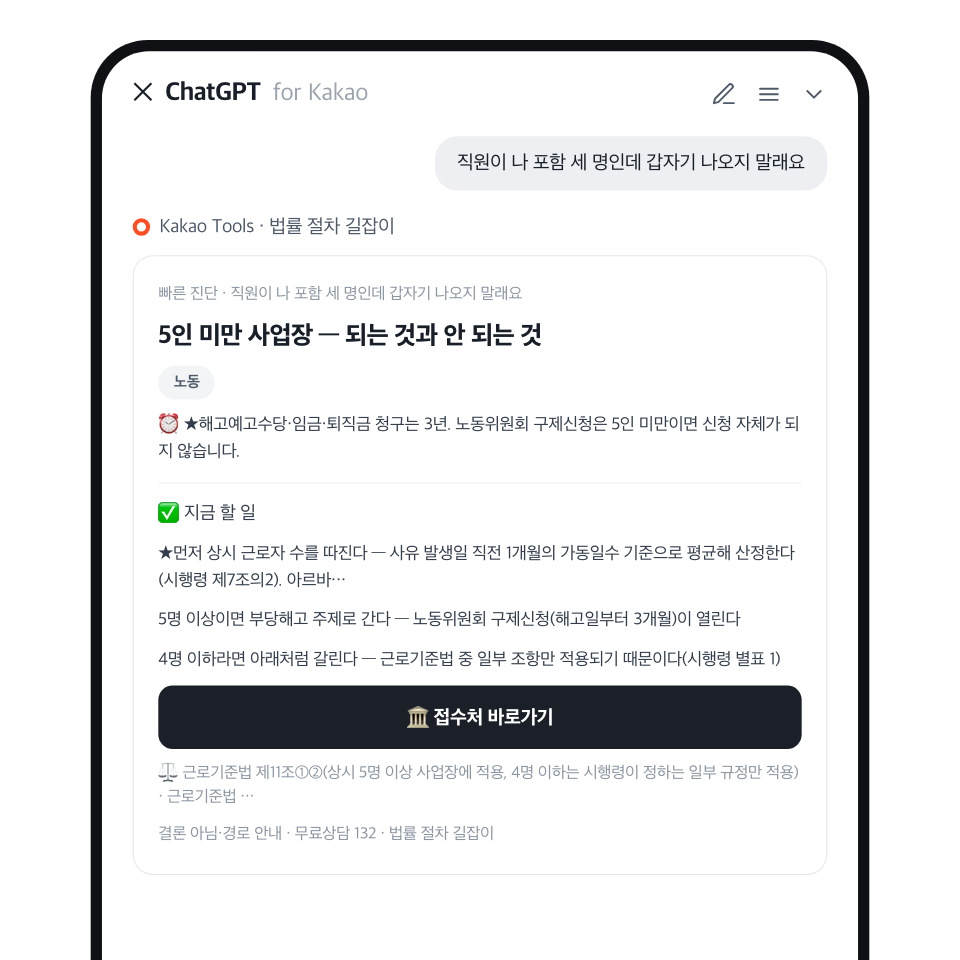
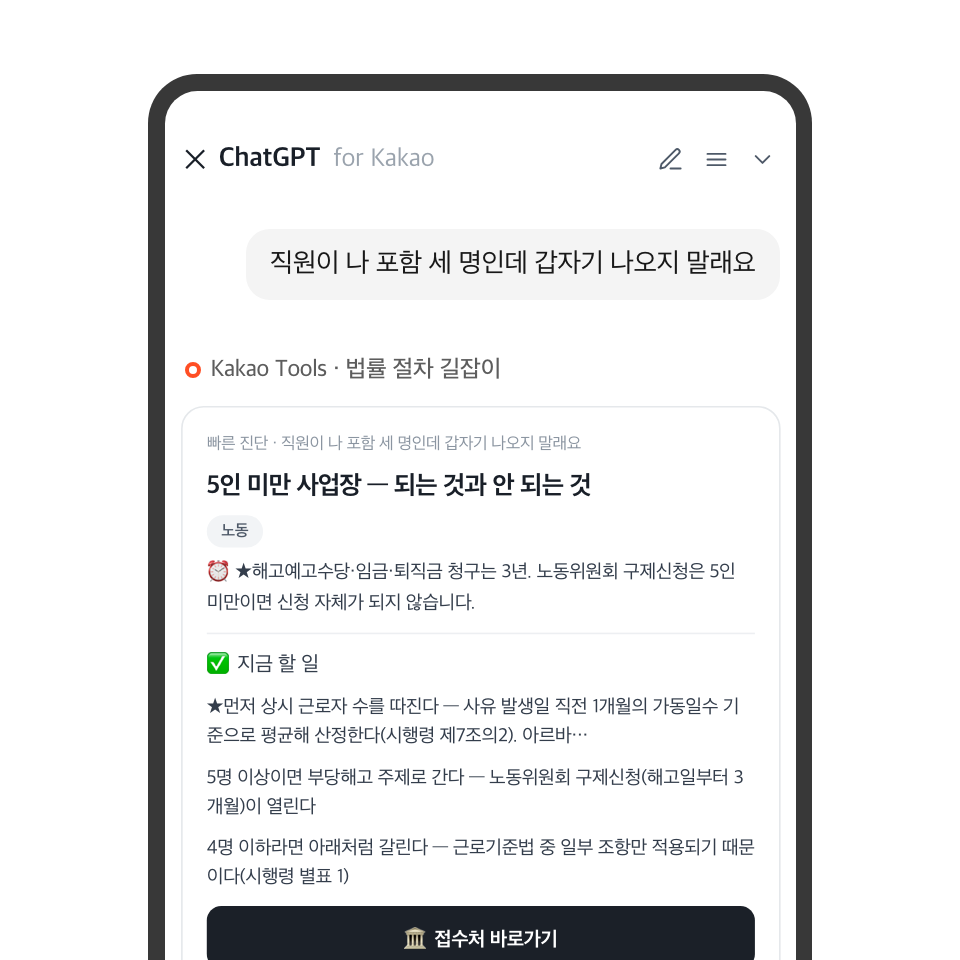
fix(assets): 소개 이미지를 공식 가이드 실측 좌표로 재제작 (2차 지적 반영)
아린님 2차 지적: '비율이 조금 확대되어 나오고 있네요'.
원인은 1차판에서 카드 길이에 맞춰 폰을 1.22배까지 키우고 위아래로 옮긴 것.
가이드 p.16이 '위치를 임의로 조정하지 않습니다'로 금지한 동작이었다.

공식 가이드 PDF(v1.1)를 300dpi로 렌더해 픽셀 단위로 실측하고 그대로 반영:
- 폰 바깥폭 664 · 좌여백 148 · 상여백 74 · 프레임 16.5 · 모서리 49
- 목업 색 #383838 (순검정 아님) · 말풍선 배경 #F4F4F4
- 화면 안쪽 좌 164.2 · 폭 631.7
- 상단바 y159 · 말풍선 y264.5 · 서비스명 y370 · 답변영역 y406~960
- 질문 27px #181818 / 서비스명 24px #5D5D5D (가이드가 변경 금지로 못박은 값)
- 답변은 393px 폭으로 그려 1.6074배 (가이드 p.9 캡처 규격과 동일한 결과)
- 말풍선이 2줄이면 아래가 밀리는 흐름 배치 (가이드 p.4)

장면도 교체: 기한 D-day(채움 69%)를 빼고 체크리스트(100%)를 넣었다.
순서는 이용자 여정 — 진단 → 계산기 → 체크리스트 → 서식 → 전화.

⚠ 가이드 p.2는 '배경은 반드시 투명'이라 적혀 있으나 아린님이 흰색을 지시하고
   흰색본을 확인 승인했다. 운영자 지시를 따르고 그 어긋남을 문서에 남겼다.

Changed region(s): [[0.0938, 0.0312, 0.9062, 1.0]]

diff --git a/docs/CONSOLE_META.md b/docs/CONSOLE_META.md
@@ -57,38 +57,63 @@
 유튜브에 저에 대한 가짜뉴스가 올라왔어요
 ```
 
-## 소개 이미지 5장 — ★2026-09-04 전면 교체 · ✅ 콘솔 업로드 완료(9/4 13:56)
+## 소개 이미지 5장 — ★2026-09-04 전면 교체 (2차: 공식 가이드 실측 반영)
 
-`assets/kakao-tools-examples/` — 960×960 · **흰 배경(불투명)** · 5장.
+`assets/kakao-tools-examples/` — 960×960 · **흰 배경(불투명)** · PNG.
 **생성:** `npm run capture:intro` (= `scripts/capture-intro.mjs`)
 
-| | 파일 | 발화 | 카드 종류 |
-|---|---|---|---|
-| 1 | `01_오인미만해고` | 직원이 나 포함 세 명인데 갑자기 나오지 말래요 | 빠른 진단 |
-| 2 | `02_서식카드` | 임금체불 진정서 양식 보여줘 | 서식 |
-| 3 | `03_전화바로걸기` | 변호사 살 돈이 없어요 | 무료지원 · `tel:` 버튼 |
-| 4 | `04_퇴직금계산` | 3년 일했고 월급 300만원인데 퇴직금 얼마예요? | 금액 계산기 |
-| 5 | `05_기한디데이` | 아버지 돌아가신 지 두 달인데 상속포기 아직 돼요? | 기한 D-day |
+| | 파일 | 발화 | 카드 종류 | 답변영역 채움 |
+|---|---|---|---|---|
+| 1 | `01_오인미만해고` | 직원이 나 포함 세 명인데 갑자기 나오지 말래요 | 빠른 진단 | 100% |
+| 2 | `02_퇴직금계산` | 3년 일했고 월급 300만원인데 퇴직금 얼마예요? | 금액 계산기 | 61% |
+| 3 | `03_준비서류` | 임금체불 신고하려면 뭘 준비해야 해요? | 체크리스트 | 100% |
+| 4 | `04_서식카드` | 임금체불 진정서 양식 보여줘 | 서식 | 94% |
+| 5 | `05_전화바로걸기` | 변호사 살 돈이 없어요 | 무료지원 · `tel:` | 90% |
 
-### 왜 8/31판을 버렸나
-- **5장 중 3장이 같은 카드였다.** 01·04·05가 전부 「빠른 진단」이었고,
-  카드 8종 중 3종만 보여주고 있었다. 계산기·기한 카드는 한 번도 안 나왔다.
-- **02가 이미 낡아 있었다.** 캡션이 `민감번호는 채팅에 쓰지 말고…`였는데
-  9/2(`c2ca0d8`)에 `🔒 주민등록번호·계좌번호만…`으로 바꿨다.
-  **제품에 없는 문구가 콘솔에 걸려 있었다.**
-- 9/1~9/2에 만든 5인 미만·킥보드·응급입원·공무원이 하나도 안 보였다.
-- 배경이 투명이라 어두운 화면에서 검게 비쳤다(9/4 아린님 지적).
+순서는 이용자 여정 — 내 상황 → 얼마 → 뭘 준비 → 서류 작성 → 도움 받기.
+카드 종류가 하나도 겹치지 않는다.
 
-### 그래서 손으로 만들지 않는다
-8/31판은 손으로 만들었고 생성기가 없었다. 그래서 제품이 바뀌어도 이미지는
-조용히 낡았다. 지금은 **서버의 `tools/call` 응답(위젯 JSON)을 그대로 그린다** —
-이미지가 제품보다 앞서거나 뒤처질 수 없다. 서식 캡처와 같은 방식(헤드리스 크롬).
+### 🔴 공식 가이드 실측값 — 이 좌표를 흔들지 말 것
+출처 `~/Downloads/KakaoTools_서비스소개이미지제작가이드v1.1.pdf`.
+제작 예시(p.15)와 템플릿 도해(p.2)를 **300dpi로 렌더해 픽셀로 쟀다**(눈대중 아님).
 
-### 규격
-- 960×960 · RGB · **알파 채널 없음**. ⛔ 투명배경으로 만들지 말 것.
-  (크롬 `--default-background-color=FFFFFFFF`로 고정해 뒀다.)
+```
+캔버스 960×960
+폰 바깥폭 664 · 좌여백 148 · 우여백 148 · 상여백 74 · 프레임 16.5 · 모서리 49
+목업 색  #383838   ← 순검정이 아니다
+화면 안쪽 좌 164.2 · 폭 631.7 · 폰은 아래로 흘러 나감
+상단바 텍스트 중심 y159 / 말풍선 텍스트 중심 y264.5
+서비스명 중심 y370 / 답변 영역 y406~960
+질문 텍스트  Pretendard Regular 27px #181818   ← 가이드 p.3 "어떠한 경우에도 변경하지 않습니다"
+서비스명     Pretendard Medium  24px #5D5D5D   ← 가이드 p.5 같은 문구
+답변 이미지  width 393px · zoom 100% · DPR 2.0 캡처 → 631.7px 자리 (배율 1.6074)
+```
+
+⛔ **가이드 p.16 Don't** — 배경 컬러 설정 금지 · 목업 컬러 변경 금지 · 목업 제거 금지 ·
+**위치 임의 조정 금지** · 템플릿 외 그래픽 추가 금지 · 960×960 유지.
+
+### 두 번 지적받았다
+- **1차(9/4 오전, 아린님)** — 배경이 투명이라 어두운 화면에서 검게 비쳤다 → 흰색으로 합성.
+- **2차(9/4 오후, 아린님)** — *"비율이 조금 확대되어 나오고 있네요"*.
+  원인: 카드 길이에 맞춰 폰을 **1.22배까지 키우고 위아래로 옮겼다**. 가이드가 금지한 짓이다.
+  → 폰을 템플릿 고정 좌표(664/148/74)로 되돌리고, 대신 **말풍선이 2줄이면 아래가 밀리는**
+  흐름 배치로 바꿨다(가이드 p.4가 말하는 동작). 실측 결과 폰 폭 664·상단 74로 정확히 일치.
+
+### ⚠ 가이드와 아린님 지시가 어긋난 지점 (사실 그대로 기록)
+가이드 v1.1 p.2는 **"배경은 반드시 투명하게 제작해 주세요"**라고 적혀 있다.
+그런데 아린님은 9/4 *"가이드 규격대로 흰색 처리 부탁드립니다"*라고 했고,
+흰색으로 올린 뒤 *"배경 흰색으로 변경된 것 확인하였습니다"*라고 승인했다.
+→ **운영자가 실제로 확인해 준 흰색을 따른다.** 문서만 보고 투명으로 되돌리지 말 것.
+
+### 손으로 만들지 않는다
+8/31판은 손으로 만들었고 생성기가 없었다. 그래서 9/2에 서식 카드 캡션을 고쳤을 때
+이미지는 그대로 낡았다(제품에 없는 문구가 콘솔에 걸려 있었다).
+지금은 **서버의 `tools/call` 응답(위젯 JSON)을 그대로 그린다** — 어긋날 수 없다.
+
 - 👉 **콘솔에 다시 업로드해야 반영된다**(재배포와 무관 — 이미지는 콘솔에만 있다).
 - 업로드용 사본: `~/Downloads/카카오툴즈_소개이미지/`
+- ⚠ Pretendard는 이 맥에 설치돼 있지 않아 CDN(jsDelivr)에서 불러온다. 오프라인이면
+  Apple SD Gothic Neo로 대체되어 글자 모양이 살짝 달라진다.
 
 ---
 
